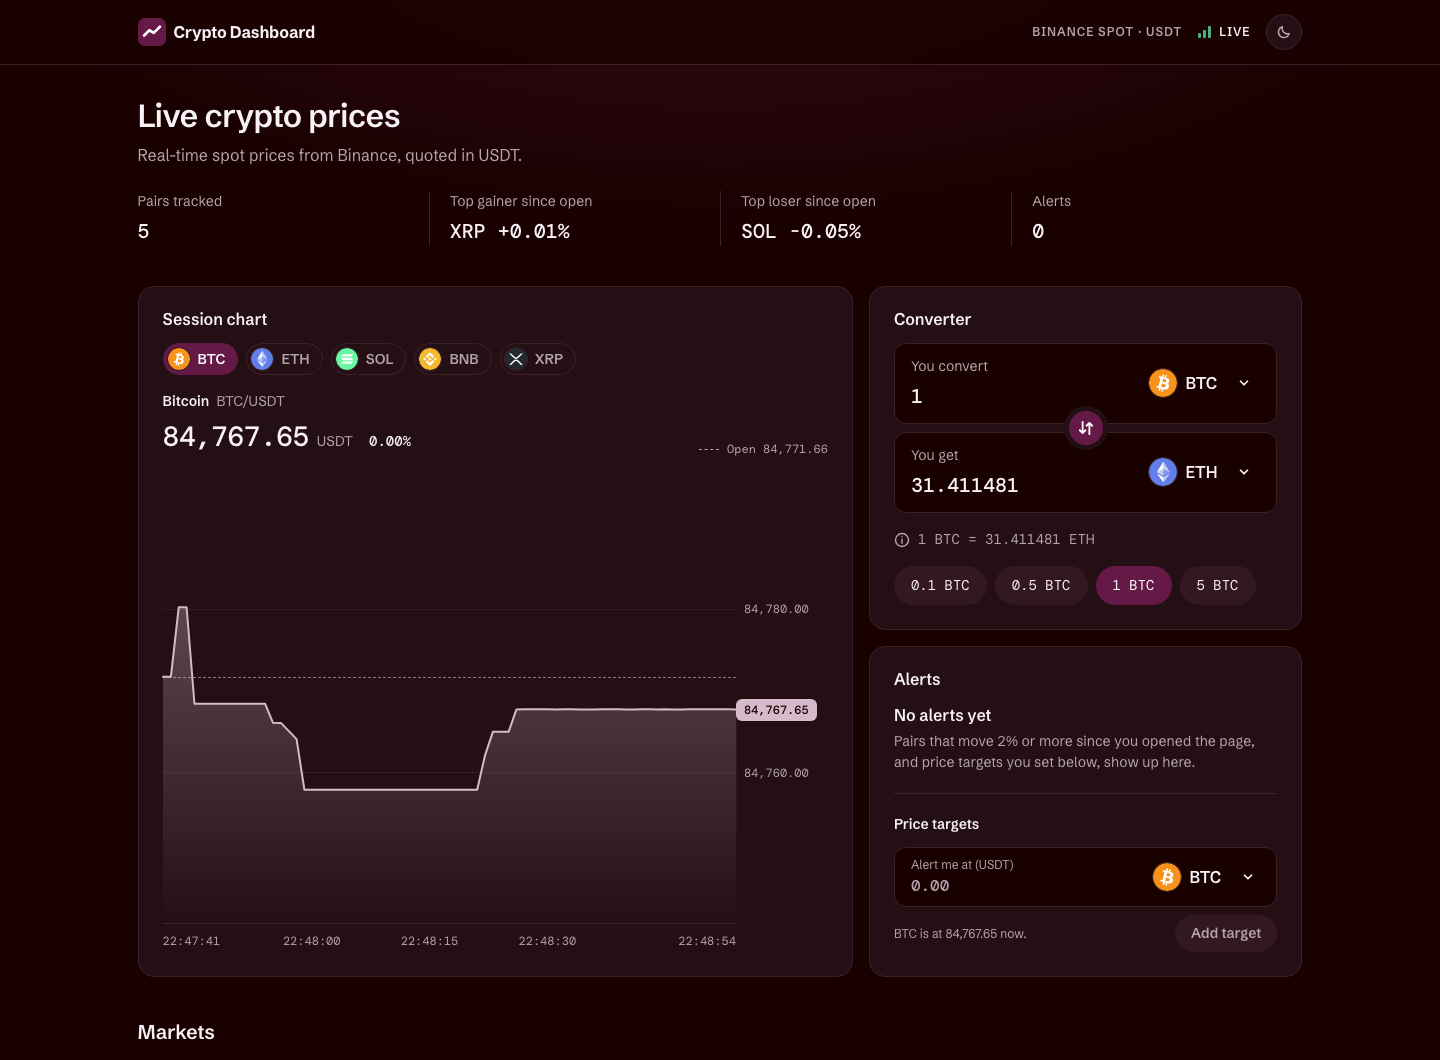
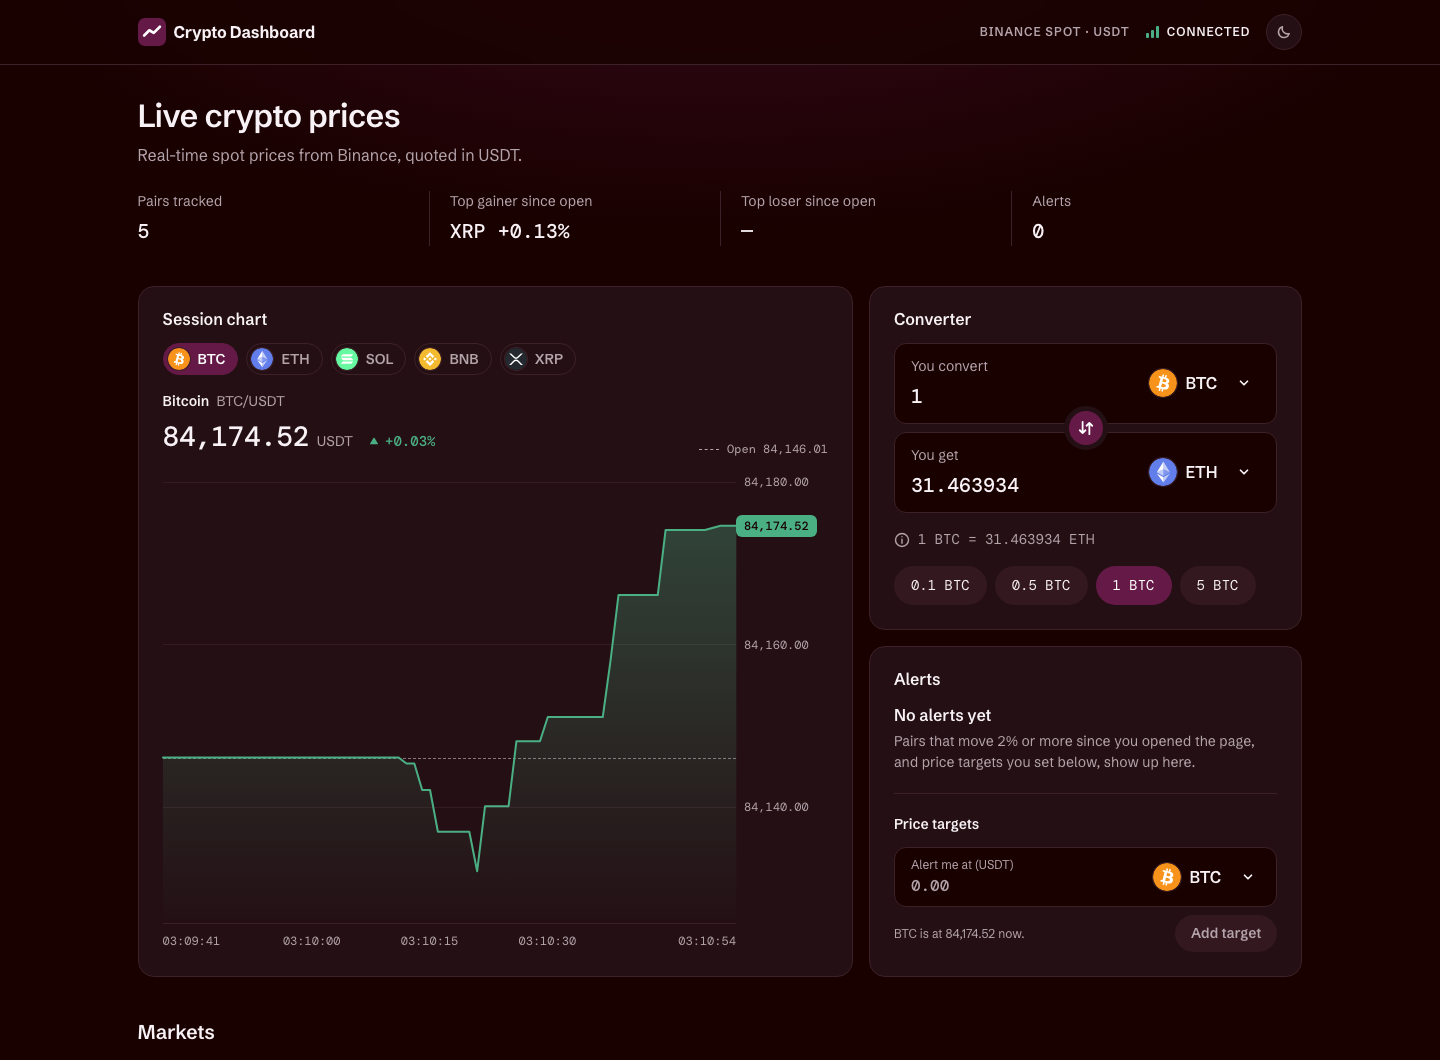
docs: correct claims found in the audit and refresh the screenshot
- screenshot shows the current Connected badge
- miniTicker sends at most once per second and only when the pair
  traded; validation messages, theme mechanics, the socket's public
  methods, the persisted fields and the announced events are now
  described exactly as the code behaves
- documents the handshake timeout, cross-tab sync, symmetric rounding,
  steady rows and the new status labels

diff --git a/DECISIONS.md b/DECISIONS.md
@@ -8,7 +8,7 @@ Each entry covers what was chosen, what else was considered, and why. The README
 
 - **Chosen:** `wss://data-stream.binance.vision/ws` with one `<symbol>@miniTicker` stream per pair.
 - **Alternatives:** `@trade` (one message per trade, often dozens per second for BTC), `@ticker` (a larger payload with fields we don't use), or `@bookTicker`, which is best bid/ask rather than a last price.
-- **Why:** `miniTicker` sends the last price (`c`) and event time (`E`) about once per second per pair. That is exactly what a price board needs, at a predictable rate. `data-stream.binance.vision` is Binance's public market-data-only host.
+- **Why:** `miniTicker` sends the last price (`c`) and event time (`E`) at most once per second per pair, and only in seconds when the pair traded, so busy coins update about every second and quiet ones less often. That is what a price board needs, without the flood of individual trades. `data-stream.binance.vision` is Binance's public market-data-only host.
 - **Gotcha:** stream names must be **lowercase**. Binance acknowledges `BTCUSDT@miniTicker` but never sends data for it, so `toStreamName` lowercases.
 
 ### 2. One socket, with `SUBSCRIBE` / `UNSUBSCRIBE` messages
@@ -26,7 +26,7 @@ Each entry covers what was chosen, what else was considered, and why. The README
 
 ### 4. Reconnect: exponential backoff with full jitter, then give up
 
-- **Chosen:** the delay is `random(0, min(30s, 1s × 2^(attempt-1)))`. After 10 failed attempts the state becomes `error` and the header shows **Retry**.
+- **Chosen:** the delay is `random(0, min(30s, 1s × 2^(attempt-1)))`. After 10 failed reconnect attempts the state becomes `error` and the header shows **Retry**.
 - **Alternatives:** a fixed delay; backoff without jitter; retrying forever.
 - **Why:** backoff avoids hammering a server that is down, and jitter stops many clients from reconnecting in lockstep. Giving up after 10 tries is more honest than a spinner that never ends, and Retry hands control back to the user.
 - **Detail:** the attempt counter resets on the **first price message**, not on `open`. A socket that opens but never delivers data would otherwise reset the counter each time and retry quickly forever.
@@ -40,7 +40,8 @@ Each entry covers what was chosen, what else was considered, and why. The README
 
 - **Chosen:** if nothing arrives for 10 seconds while pairs are subscribed, the socket sends `LIST_SUBSCRIPTIONS`. Any reply (a price, an ack or an error) proves the connection is alive and restarts the timer. Only if nothing answers within 5 more seconds is the socket treated as dead and replaced.
 - **Alternatives:** drop the socket after N seconds of silence; rely on `onclose` alone.
-- **Why:** a half-open TCP connection (laptop sleep, Wi-Fi change) can stay "open" without delivering anything, and `onclose` may never fire. Binance also closes every connection after 24 hours. But `miniTicker` only sends when a price changes: a live test showed ETC sending 2 messages in 40 seconds. A plain silence timer would keep killing healthy connections for quiet coins. Asking before hanging up separates "quiet" from "dead".
+- **Why:** a half-open TCP connection (laptop sleep, Wi-Fi change) can stay "open" without delivering anything, and `onclose` may never fire. Binance also closes every connection after 24 hours. But `miniTicker` only sends in seconds when the pair traded (the price in a message is often unchanged): a live test showed ETC sending 2 messages in 40 seconds. A plain silence timer would keep killing healthy connections for quiet coins. Asking before hanging up separates "quiet" from "dead".
+- **Handshake timeout:** the same 10 seconds also limits how long a new socket may stay in the connecting stage. A network that silently drops traffic would otherwise leave it "connecting" for minutes before the browser gives up, so the retry count would crawl.
 
 ### 7. Offline / online events
 
@@ -71,6 +72,7 @@ Each entry covers what was chosen, what else was considered, and why. The README
 
 - **Chosen:** `persist`'s `merge` passes the saved JSON through `sanitizePreferences`. It keeps only known symbols, removes duplicates, checks every enum and price target, and falls back to defaults for anything else. Favorites, hidden pairs and targets for pairs that are no longer followed are dropped.
 - **Why:** `localStorage` is user-editable and survives app updates. A corrupted or old value must never crash the app or subscribe to a symbol that doesn't exist.
+- **Several tabs:** `persist` writes the whole preferences object on every change, so a second open tab would overwrite the first tab's changes with its stale copy. A `storage` event listener (`useCrossTabPreferences`) reloads the preferences whenever another tab saves them.
 
 ### 12. Containers vs presentational components, enforced by lint
 
@@ -90,15 +92,15 @@ Each entry covers what was chosen, what else was considered, and why. The README
 - **Chosen:** alert at |change| ≥ 2% (inclusive). Once a pair has alerted, it must return inside **±1.5%** before it can alert again. Going straight from +2.5% to −2.5% is a new alert, because the direction changed.
 - **Alternatives:** alert again every time the price is outside 2%; re-arm as soon as the price is back under 2%.
 - **Why:** the brief forbids duplicate alerts while a pair stays beyond the threshold. Without a gap between the "fire" and "re-arm" levels, a price oscillating around 2.00% would alert on every tick.
-- **Detail:** the check uses the change **rounded to 2 decimals, as shown on screen**. Floating point makes `2.5 → 2.55` equal `1.9999999999999927%`. Without rounding, the screen would show "+2.00%" but no alert would fire.
+- **Detail:** the check uses the change **rounded to 2 decimals**, and the screen shows that same rounded number (`formatPercent` calls `roundPercent`), so what you see and what is checked can never disagree. Floating point makes `2.5 → 2.55` equal `1.9999999999999927%`, and halves round away from zero, so −1.995% becomes −2.00% exactly like +1.995% becomes +2.00%.
 
 ### 15. Hidden pairs don't raise ±2% alerts
 
-- **Why:** hiding means "I don't want to see this". Their prices keep updating, so restoring a pair is instant and its baseline stays correct. Price targets are explicit requests, so they still fire for hidden pairs.
+- **Why:** hiding means "I don't want to see this". Hidden pairs are also left out of the top gainer and loser stats. Their prices keep updating, so restoring a pair is instant and its baseline stays correct. Price targets are explicit requests, so they still fire for hidden pairs.
 
 ### 16. Hide vs remove
 
-- **Hide** (§6) keeps the pair subscribed and restorable, and is saved. **Remove** (Edit pairs) unsubscribes it, forgets its data, and drops its favorite, hidden and target entries.
+- **Hide** (brief requirement 6) keeps the pair subscribed and restorable, and is saved. **Remove** (Edit pairs) unsubscribes it, forgets its data, and drops its favorite, hidden and target entries.
 - **Why:** they solve different problems, a temporary declutter versus changing what you follow. Remove lives in a separate panel so it can't be clicked by accident next to hide. At least one pair always stays followed.
 
 ### 17. Converter goes through USDT
@@ -108,7 +110,7 @@ Each entry covers what was chosen, what else was considered, and why. The README
 
 ### 18. Own number parser, text input
 
-- **Chosen:** `<input type="text" inputMode="decimal">` with `parseAmount`, which accepts digits with one `.` or `,` and rejects signs, negatives, exponents (`1e5`) and anything else, with a specific message for each.
+- **Chosen:** `<input type="text" inputMode="decimal">` with `parseAmount`, which accepts digits with one `.` or `,` and rejects signs, exponents (`1e5`), repeated separators, input over 18 characters and anything else. Negatives get their own message ("Amounts can’t be negative."); every other invalid input says "Enter a number, like 0.5". An empty field is not an error, the result just shows "—".
 - **Alternatives:** `<input type="number">`.
 - **Why:** number inputs accept `e`, `+` and `-`, return an empty string for invalid text instead of reporting it, and behave differently across browsers. Accepting `,` supports locales where it is the decimal separator.
 
@@ -131,7 +133,7 @@ Each entry covers what was chosen, what else was considered, and why. The README
 
 ### 21. Theme with `light-dark()` and a pre-paint script
 
-- **Chosen:** each colour token is defined once as `light-dark(light, dark)`. Switching theme only sets `color-scheme` on `<html>`. Without a saved choice, it follows the system. A few lines of inline script in `index.html` read the saved theme and set it before React loads.
+- **Chosen:** each themed colour token is defined once as `light-dark(light, dark)` (the accent is the same in both themes). Switching theme sets `data-theme="light"` or `"dark"` on `<html>` (or removes it for "system"), and two CSS rules turn that into `color-scheme`, which every `light-dark()` token follows. The browser's `theme-color` bar is updated to match. Without a saved choice, it follows the system. A few lines of inline script in `index.html` read the saved theme and set it before React loads.
 - **Alternatives:** duplicate token blocks for `[data-theme]` and the media query; applying the theme only from React.
 - **Why:** there's a single source of truth for every colour. Without the pre-paint script, a light-theme user would see a dark flash on every reload while React loads.
 
@@ -145,13 +147,14 @@ Each entry covers what was chosen, what else was considered, and why. The README
 
 ### 24. Status labels follow the brief's wording
 
-- The badge reads **Connected**, **Reconnecting (try n)…**, **Offline** (the browser has no network), **Connecting…**, and **Connection lost** + **Retry** once the socket has given up. The first three are the brief's Connected / Reconnecting / Disconnected states. "Offline" is the disconnected state named after its cause, because it resumes on its own when the network returns.
+- The badge reads **Connecting…** (first load), **Connected**, **Reconnecting (try n)…** (for the whole retry, including while the new socket is opening), **Disconnected (offline)** when the browser has no network, and **Connection lost** + **Retry** once the socket has given up. These are the brief's Connected / Reconnecting / Disconnected states, plus the error state.
 - On phones, the wordmark next to the logo is visually hidden (screen readers still read it) and the letter spacing tightens, so every state, including Retry, fits in 320px.
 
 ### 25. Screen readers and focus
 
-- Live prices update several times a second, so they are **not** in live regions. Otherwise a screen reader would talk non-stop. Only things the user caused are announced: validation errors, the number of search results, connection changes and new alerts.
-- When the control you used disappears (hiding a row, dismissing an alert, removing a target, restoring the last hidden pair), focus moves to the same control in the next row, or to a sensible neighbour, instead of falling back to the top of the page.
+- Live prices update several times a second, so they are **not** in live regions. Otherwise a screen reader would talk non-stop. What is announced: validation errors, the number of search results, connection state changes, new alerts, and the loading or error message.
+- When the control you used disappears (hiding a row, dismissing an alert, removing a target, restoring the last hidden pair), focus moves to the same control in the next row, or to a sensible neighbour, instead of falling back to the top of the page. If the whole list disappears, focus goes to the search box (markets), the alerts area, or the status badge (after Retry).
+- **Rows don't jump while you use them.** When sorted by price or change, the order is frozen while the pointer or keyboard focus is inside the table body and catches up as soon as you leave. Otherwise a live re-sort could move a row away just as you click its star, and moving a focused row makes the browser drop keyboard focus.
 
 ## Tooling
 

diff --git a/README.md b/README.md
@@ -16,21 +16,21 @@ A real-time cryptocurrency dashboard built with React and TypeScript. It streams
 | 4. Calculator                  | Convert between any tracked coin and USDT at live prices. Select, swap, quick amounts and validation for empty, negative, invalid and `e` notation input.                                                            |
 | 5. Favorites                   | Star a pair and switch between All and Favorites. Saved in `localStorage`.                                                                                                                                           |
 | 6. Hide currencies             | Hide a pair, then view and restore hidden pairs one by one or all at once. Saved in `localStorage`.                                                                                                                  |
-| 7. Search and sorting          | Search by name, symbol or pair (`bit`, `BTC`, `btc/usdt`). Sort by name, current price or % change since open.                                                                                                       |
-| 8. WebSocket state             | A header badge shows Connecting, Connected, Reconnecting with the attempt number, Offline, and Connection lost with a Retry button. Automatic reconnect with backoff, and full cleanup on unmount.                   |
+| 7. Search and sorting          | Search by name, symbol or pair (`bit`, `BTC`, `btc/usdt`). Sort by name, current price or % change since open. Rows don't jump while your pointer or keyboard focus is in the table.                                 |
+| 8. WebSocket state             | A header badge shows Connecting, Connected, Reconnecting (try n), Disconnected (offline), and Connection lost with a Retry button. Automatic reconnect with backoff, and full cleanup on unmount.                    |
 | 9. UI states                   | Loading skeletons, connected, reconnecting, disconnected, error, empty search, empty favorites and all pairs hidden.                                                                                                 |
 | Bonus: session chart           | A price chart per pair built from data collected this session, with price and time axes, the opening price as a dashed line and a hover or touch readout.                                                            |
 | Bonus: add / remove pairs      | "Edit pairs" lets you follow any of 18 supported coins. The list is saved.                                                                                                                                           |
 | Bonus: subscribe / unsubscribe | Changing pairs sends `SUBSCRIBE` / `UNSUBSCRIBE` diffs on the open socket, paced to stay under Binance's rate limit. It never reconnects.                                                                            |
 | Bonus: price targets           | Choose a coin and a target price ("alert me when BTC rises above 90,000"). Targets are saved and fire once.                                                                                                          |
 | Bonus: light / dark theme      | Follows the system by default. The toggle choice is saved and applied before first paint, so there's no flash.                                                                                                       |
-| Bonus: unit tests              | 141 Vitest tests, including the calculator, % change, alert rules, the socket's reconnect logic, sorting, search and stores.                                                                                         |
+| Bonus: unit tests              | 151 Vitest tests, including the calculator, % change, alert rules, the socket's reconnect logic, sorting, search and stores.                                                                                         |
 
 The layout is responsive down to 320px wide. Every control is keyboard accessible and has an accessible name. Focus moves to a neighbouring control when the one you used disappears (hide, dismiss, restore), and live prices never trigger screen-reader announcements on their own.
 
 ## Getting started
 
-Requirements: **Node.js 22.12+ or 24** (see `.nvmrc`) and npm.
+Requirements: **Node.js 22.13+ or 24** (see `.nvmrc`) and npm.
 
 ```bash
 npm install
@@ -88,10 +88,10 @@ Binance WebSocket ──► BinanceSocket ──► useMarketFeed ──(batch e
   (miniTicker)        reconnect, watchdog,     latest price per pair,          prices, alerts,      (selectors)     (props)
                       subscribe diffs          checks price targets            connection state
 Binance REST  ──► useTickerSnapshot ─────────────────────────────────────────► marketStore
-localStorage  ◄──► preferencesStore (pairs, favorites, hidden, sort, targets, theme) ◄──► containers
+localStorage  ◄──► preferencesStore (pairs, favorites, hidden, view, sort, targets, theme) ◄──► containers
 ```
 
-- **`BinanceSocket`** has no React in it. It owns the connection lifecycle: connect, subscribe, reconnect with exponential backoff and full jitter, a watchdog that checks a quiet connection is still alive before replacing it, and pausing while the browser is offline. It exposes only `setSymbols`, `connect`, `disconnect` and two listener methods. Its network status, randomness and `WebSocket` constructor are injectable, so the tests drive it with fakes and fake timers.
+- **`BinanceSocket`** has no React in it. It owns the connection lifecycle: connect, subscribe, reconnect with exponential backoff and full jitter, a watchdog that checks a quiet connection is still alive before replacing it, and pausing while the browser is offline. Its public methods are `connect`, `disconnect`, `setSymbols`, `getState` and two listener methods (`onStateChange`, `onTicker`). Its network status, randomness and `WebSocket` constructor are injectable, so the tests drive it with fakes and fake timers.
 - **`useMarketFeed`** is the only place the socket meets React. It creates one socket for the app's lifetime, sends pair changes to `setSymbols`, and cleans up everything (timer, listeners, socket) on unmount.
 - **Two stores.** Live prices change several times a second and must never be written to `localStorage`. Preferences change rarely and must survive a reload. Keeping them apart means `persist` never serialises price data.
 - **Layers are enforced, not just a convention.** ESLint's `no-restricted-imports` fails the lint if a component imports a store, service, hook or container, or if `domain/` or `services/` import React or a store.
@@ -105,7 +105,7 @@ The short version is below. Every decision, with the alternatives and trade-offs
 - **±2% is inclusive**, measured on the value as displayed (rounded to 2 decimals). After an alert, a pair must calm back inside ±1.5% before it can alert again. This stops a price hovering around 2% from spamming alerts.
 - **Alerts are muted for hidden pairs.** You asked not to see them. Price targets you set explicitly still fire.
 - **Updates are batched** into one store write every 250ms (latest price wins), so the UI renders at most 4 times per second however many messages arrive.
-- **Reconnect** uses exponential backoff with full jitter (1s, 2s, 4s … capped at 30s). After 10 failed attempts it stops and shows a Retry button instead of retrying forever.
+- **Reconnect** uses exponential backoff with full jitter (1s, 2s, 4s … capped at 30s). After 10 failed reconnect attempts it stops and shows a Retry button instead of retrying forever.
 - **Conversion goes through USDT**, with USDT priced at exactly 1.
 - **The pair catalog is fixed** (18 USDT pairs with names and icons). The Binance stream only sends symbols, so names for search come from this catalog.
 - **Saved preferences are validated** when loaded. Unknown symbols, wrong types or corrupted JSON fall back to defaults instead of crashing the app.
